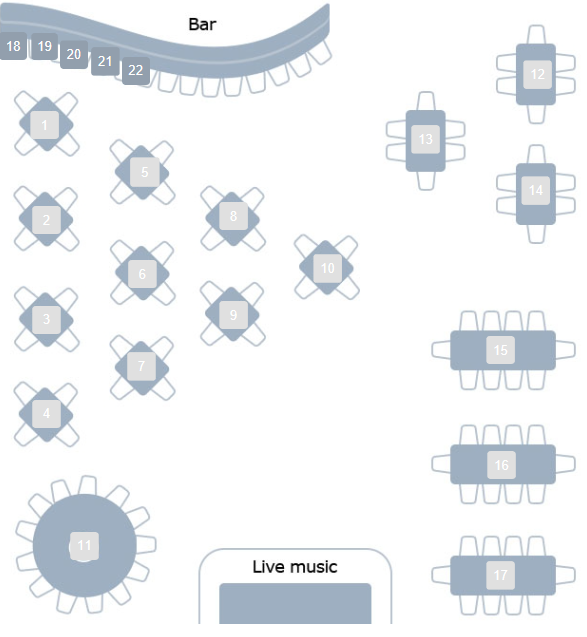
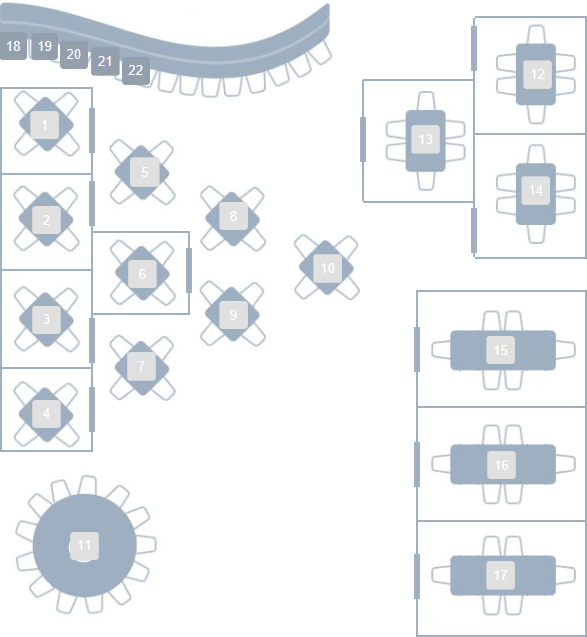
Durée + map svg lié cahier des charges

diff --git a/assets/js/reservation.js b/assets/js/reservation.js
@@ -81,22 +81,25 @@ $(document).ready(function() {
     // });
 });
 
-function dureereservation() {
-    $(document).ready(function() {
-        var timeheader = document.getElementById('timepicker').value;
-        var t1 = timeheader.split(':');
-        var durationheader = 19 - t1[0];
-        var dureeheader = durationheader + ':00';
-        console.log(dureeheader);
-        $('#durationpicker').timepicker({
-            timeFormat: 'H:00',
-            dropdown: true,
-            scrollbar: true,
-            minTime: '1:00',
-            maxTime: dureeheader,
+    jQuery(document).ready(function() {
+        $( "#durationpicker" ).focusin(function() {
+            var $el = $("#durationpicker");
+            var timeheader = document.getElementById('timepicker').value;
+            var t1 = timeheader.split(':');
+            var durationheader = 19 - t1[0];
+            $el.empty();
+            var i = 0;
+            while(i < durationheader) {
+                i = i + 1;
+                $el.append($("<option></option>").attr("value", i).text(i+"h"));
+            }
         });
     });
-}
+    function changeheure() {
+        $('#durationpicker').timepicker('destroy');
+        var $el = $("#durationpicker");
+        $el.empty();
+    }
 
 
 //Incrementer and decrementer 
@@ -197,23 +200,14 @@ $("#checkbutton").click(function() {
                 break;
             case (4 < quantity && quantity < 7):
                 {
-                    var items = document.querySelectorAll('#svg_37,#svg_35,#svg_33');
+                    var items = document.querySelectorAll('#svg_37,#svg_35,#svg_33,#svg_27,#svg_29,#svg_31');
                     for (var i = 0; i < items.length; i++) {
                         $(items[i]).attr('class', 'selectable');
                         document.getElementById('Plan').style.display = "block";
                     }
                 }
                 break;
-            case (6 < quantity && quantity <= 10):
-                {
-                    var items = document.querySelectorAll('#svg_27,#svg_29,#svg_31');
-                    for (var i = 0; i < items.length; i++) {
-                        $(items[i]).attr('class', 'selectable');
-                        document.getElementById('Plan').style.display = "block";
-                    }
-                }
-                break;
-            case (10 < quantity && quantity <= 13):
+            case (6 < quantity && quantity <= 13):
                 {
                     var items = document.querySelectorAll('#svg_25');
                     for (var i = 0; i < items.length; i++) {

diff --git a/application/views/site/pages/reservation.php b/application/views/site/pages/reservation.php
@@ -28,7 +28,7 @@
             
             <div class="col-xs-12 col-sm-3">
                 <label>Durée *</label>
-                <?= form_input(array('name' => 'Duree', 'placeholder' => 'Durée de reservation ','onkeydown'=>"return false", 'id' => 'durationpicker', 'onclick' => 'dureereservation();', 'class' => (empty(form_error('Time')) ? "" : "has-error") . "col-xs-12 col-sm-12 col-md-12 col-lg-12", 'value' => set_value('Duree'))); ?>
+                <select name="Duree" Placeholder="Durée de reservation" id="durationpicker" class="col-xs-12 col-sm-12 col-md-12 col-lg-12"></select>
             </div>
 
 
@@ -68,7 +68,7 @@
  
 <div class="map" id="map">
         <div class="map__image">
-          <svg version="1.1" id="Calque_1" xmlns="http://www.w3.org/2000/svg" xmlns:xlink="http://www.w3.org/1999/xlink" x="0px" y="0px" viewBox="0 0 571 620" style="enable-background:new 0 0 571 620;" xml:space="preserve">
+          <svg version="1.1" id="Calque_1" xmlns="http://www.w3.org/2000/svg" xmlns:xlink="http://www.w3.org/1999/xlink" x="0px" y="0px" viewBox="0 0 571 660" style="enable-background:new 0 0 571 660;" xml:space="preserve">
         
             <g>
             <image style="overflow:visible;enable-background:new;" width="587" height="637" id="svg_1" xlink:href="<?= site_url('assets/images/plan2.PNG'); ?>" transform="matrix(0.9438 0 0 0.9438 6 40.4055)"></image>
